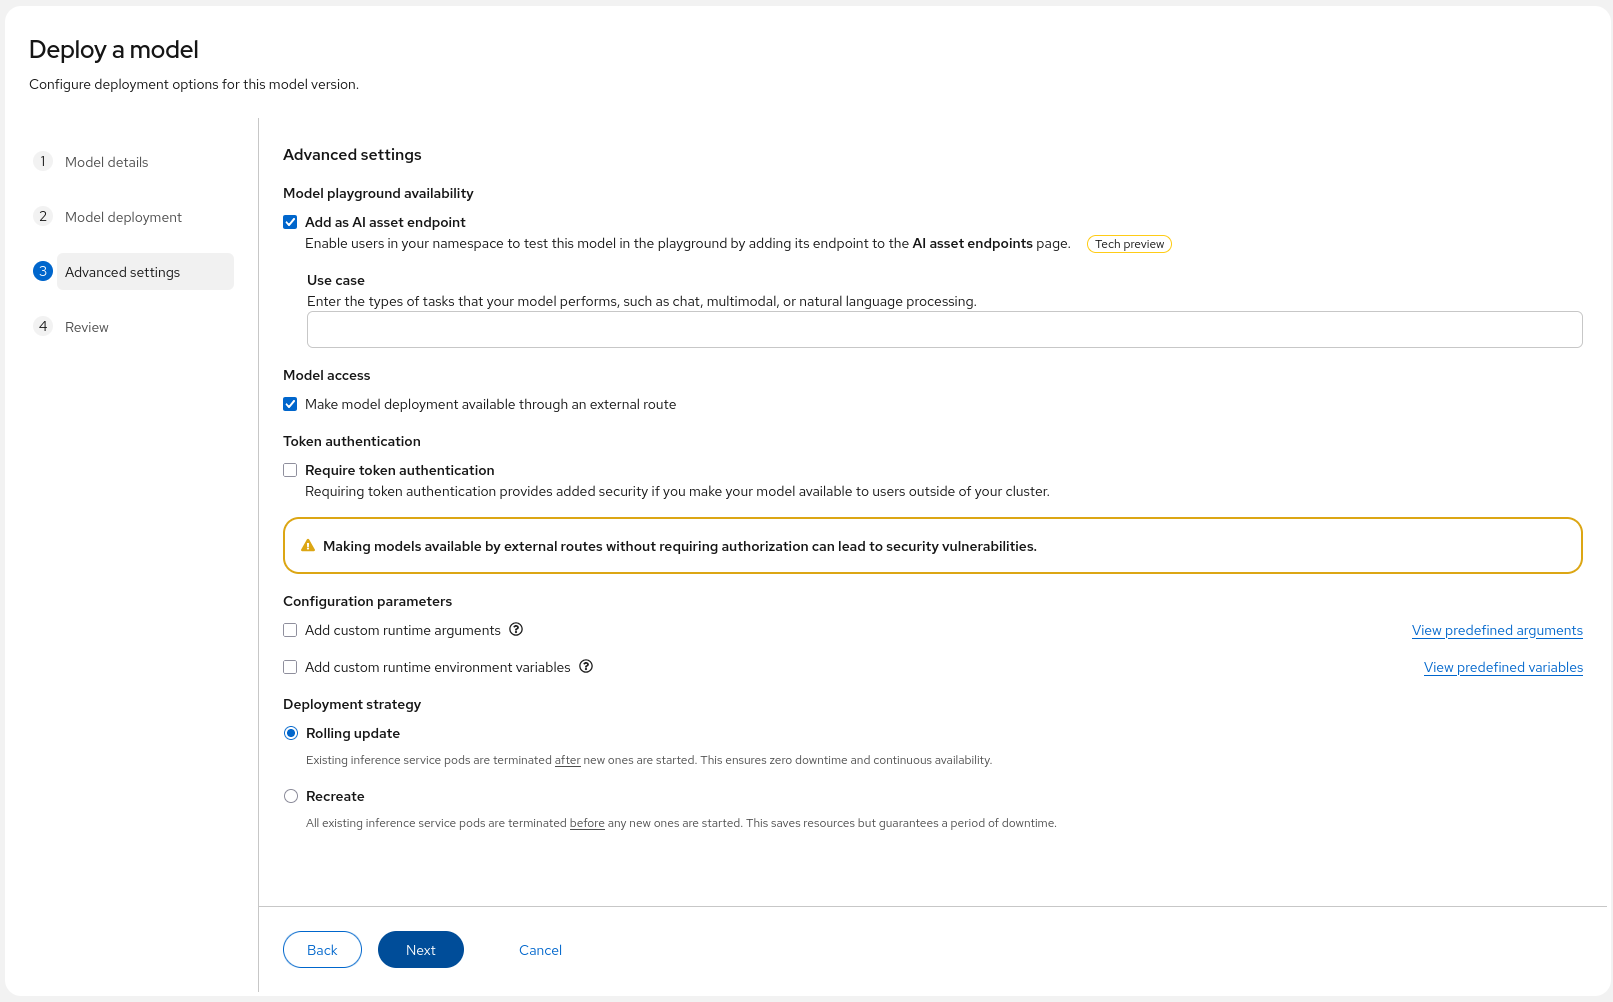
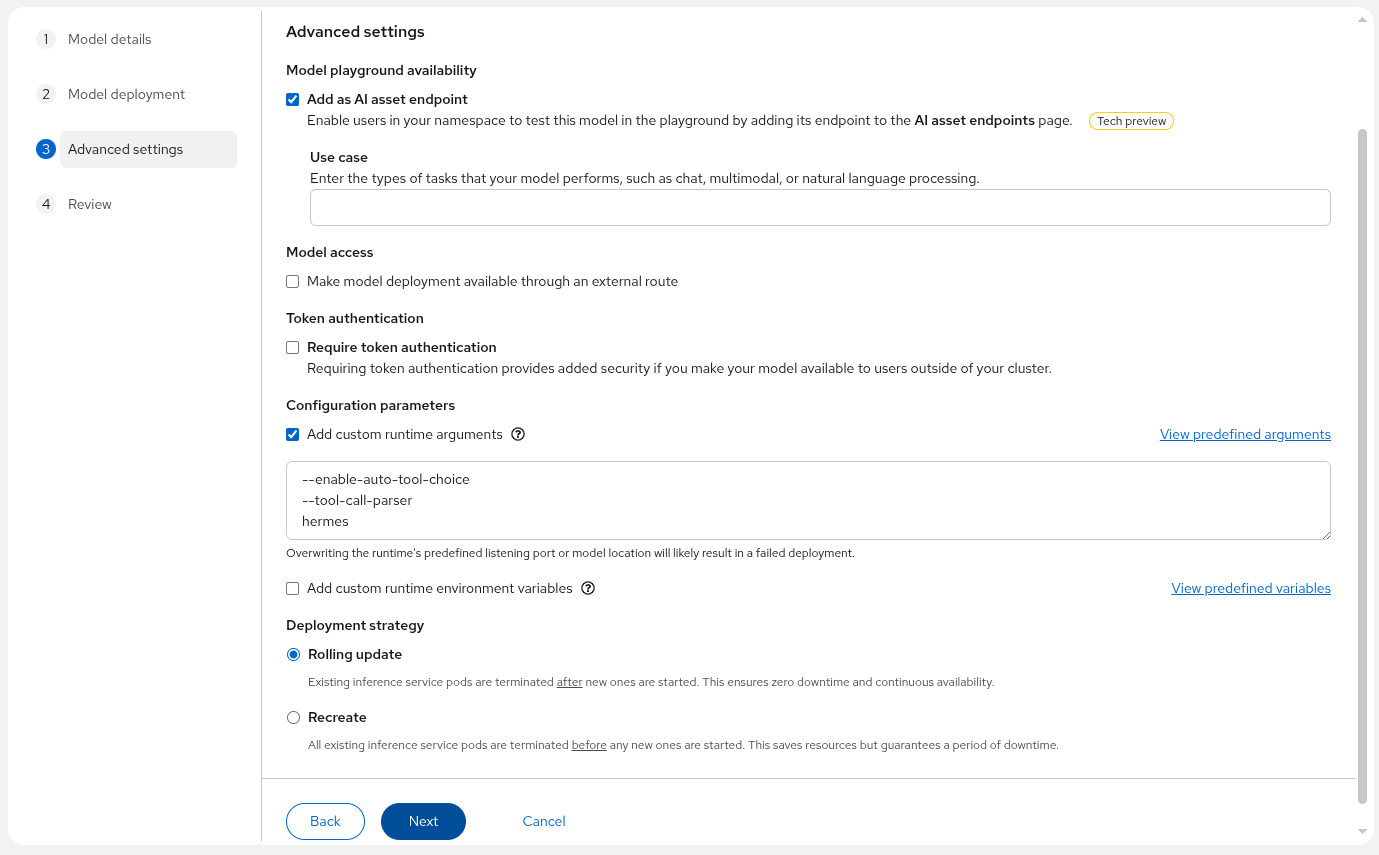
[CI] Publish Documentation for 16d1a58d3fafea8708254551fc79879323684dff - 16d1a58d3fafea8708254551fc79879323684dff 🚀

diff --git a/agents-101-workshop/0.html b/agents-101-workshop/0.html
@@ -222,7 +222,10 @@
 <div class="sect2">
 <h3 id="01"><a class="anchor" href="#01"></a>Objetivo</h3>
 <div class="paragraph">
-<p>El objetivo de este taller es desplegar un <strong>asistente</strong> que ayude a los usuarios a calcular la penalización por un pago pendiente. Lo haremos utilizando un agente basado en Llama Stack, RAG y servidores MCP. Conocerás paso a paso cómo es el flujo de trabajo dentro de OpenShift AI para tanto el desarrollo como el despliegue del agente.</p>
+<p>El objetivo de este taller es desplegar un <strong>asistente</strong> para ayudar a los ciudadanos de un país ficticio, Lysmark. A través del chat, los usuarios podrán pedir información sobre la leyes del país. En este caso, nos centraremos en ofrecer información precisa sobre las penalizaciones por impago.</p>
+</div>
+<div class="paragraph">
+<p>La aplicación estará basada en un agente de IA basado en Llama Stack, RAG y servidores MCP. Conocerás paso a paso cómo es el flujo de trabajo dentro de OpenShift AI para tanto el desarrollo como el despliegue del agente.</p>
 </div>
 <div class="imageblock">
 <div class="content">

diff --git a/agents-101-workshop/5.html b/agents-101-workshop/5.html
@@ -262,7 +262,7 @@
 </div>
 </div>
 <div class="paragraph">
-<p>¡Genial! Primero vamos a verificar que el agente puede extraer información de la documentación con RAG. Escribe lo siguiente:</p>
+<p>¡Genial! Primero vamos a verificar que el agente tiene acceso a la documentación gracias al RAG. Vamos a preguntar si conoce algo sobre el país para el que estamos creando el agente. Escribe lo siguiente:</p>
 </div>
 <div class="listingblock console-input">
 <div class="content">
@@ -270,7 +270,7 @@
 </div>
 </div>
 <div class="paragraph">
-<p><strong>Lysmark</strong> es el nombre ficticio del país que ha decidido poner en marcha a este agente de inteligencia artificial. Por lo que debería de ser capaz de dar una respuesta como esta:</p>
+<p>Debería de ser capaz de dar una respuesta como esta:</p>
 </div>
 <div class="imageblock">
 <div class="content">

diff --git a/agents-101-workshop/2.html b/agents-101-workshop/2.html
@@ -276,7 +276,24 @@
 </div>
 </div>
 <div class="paragraph">
-<p>En el tercer paso tenemos opciones de configuración avanzada. Modifica el formulario como se muestra en la siguiente imagen.</p>
+<p>En el tercer paso tenemos opciones de configuración avanzada. Modifica el formulario de la siguiente forma:</p>
+</div>
+<div class="ulist">
+<ul>
+<li>
+<p>Habilita la casilla <code>Add as AI asset endpoint</code>.</p>
+</li>
+<li>
+<p>Habilita la casilla <code>Add custom runtime arguments</code> y pega abajo estos argumentos:</p>
+</li>
+</ul>
+</div>
+<div class="listingblock console-input">
+<div class="content">
+<pre class="highlightjs highlight"><code class="language-bash hljs" data-lang="bash">--enable-auto-tool-choice
+--tool-call-parser
+hermes</code></pre>
+</div>
 </div>
 <div class="imageblock">
 <div class="content">

diff --git a/agents-101-workshop/7.html b/agents-101-workshop/7.html
@@ -221,6 +221,9 @@
 <p>Hemos unificado la comunicación de nuestro stack desplegando una distribución de LlamaStack y sus respectivos componentes.</p>
 </li>
 <li>
+<p>Hemos utilizado automatizaciones a través de pipelines para la ingestión de documentación y realizar RAG.</p>
+</li>
+<li>
 <p>Hemos terminado desplegando la aplicación agéntica que usa todas las piezas de nuestra arquitectura.</p>
 </li>
 <li>
